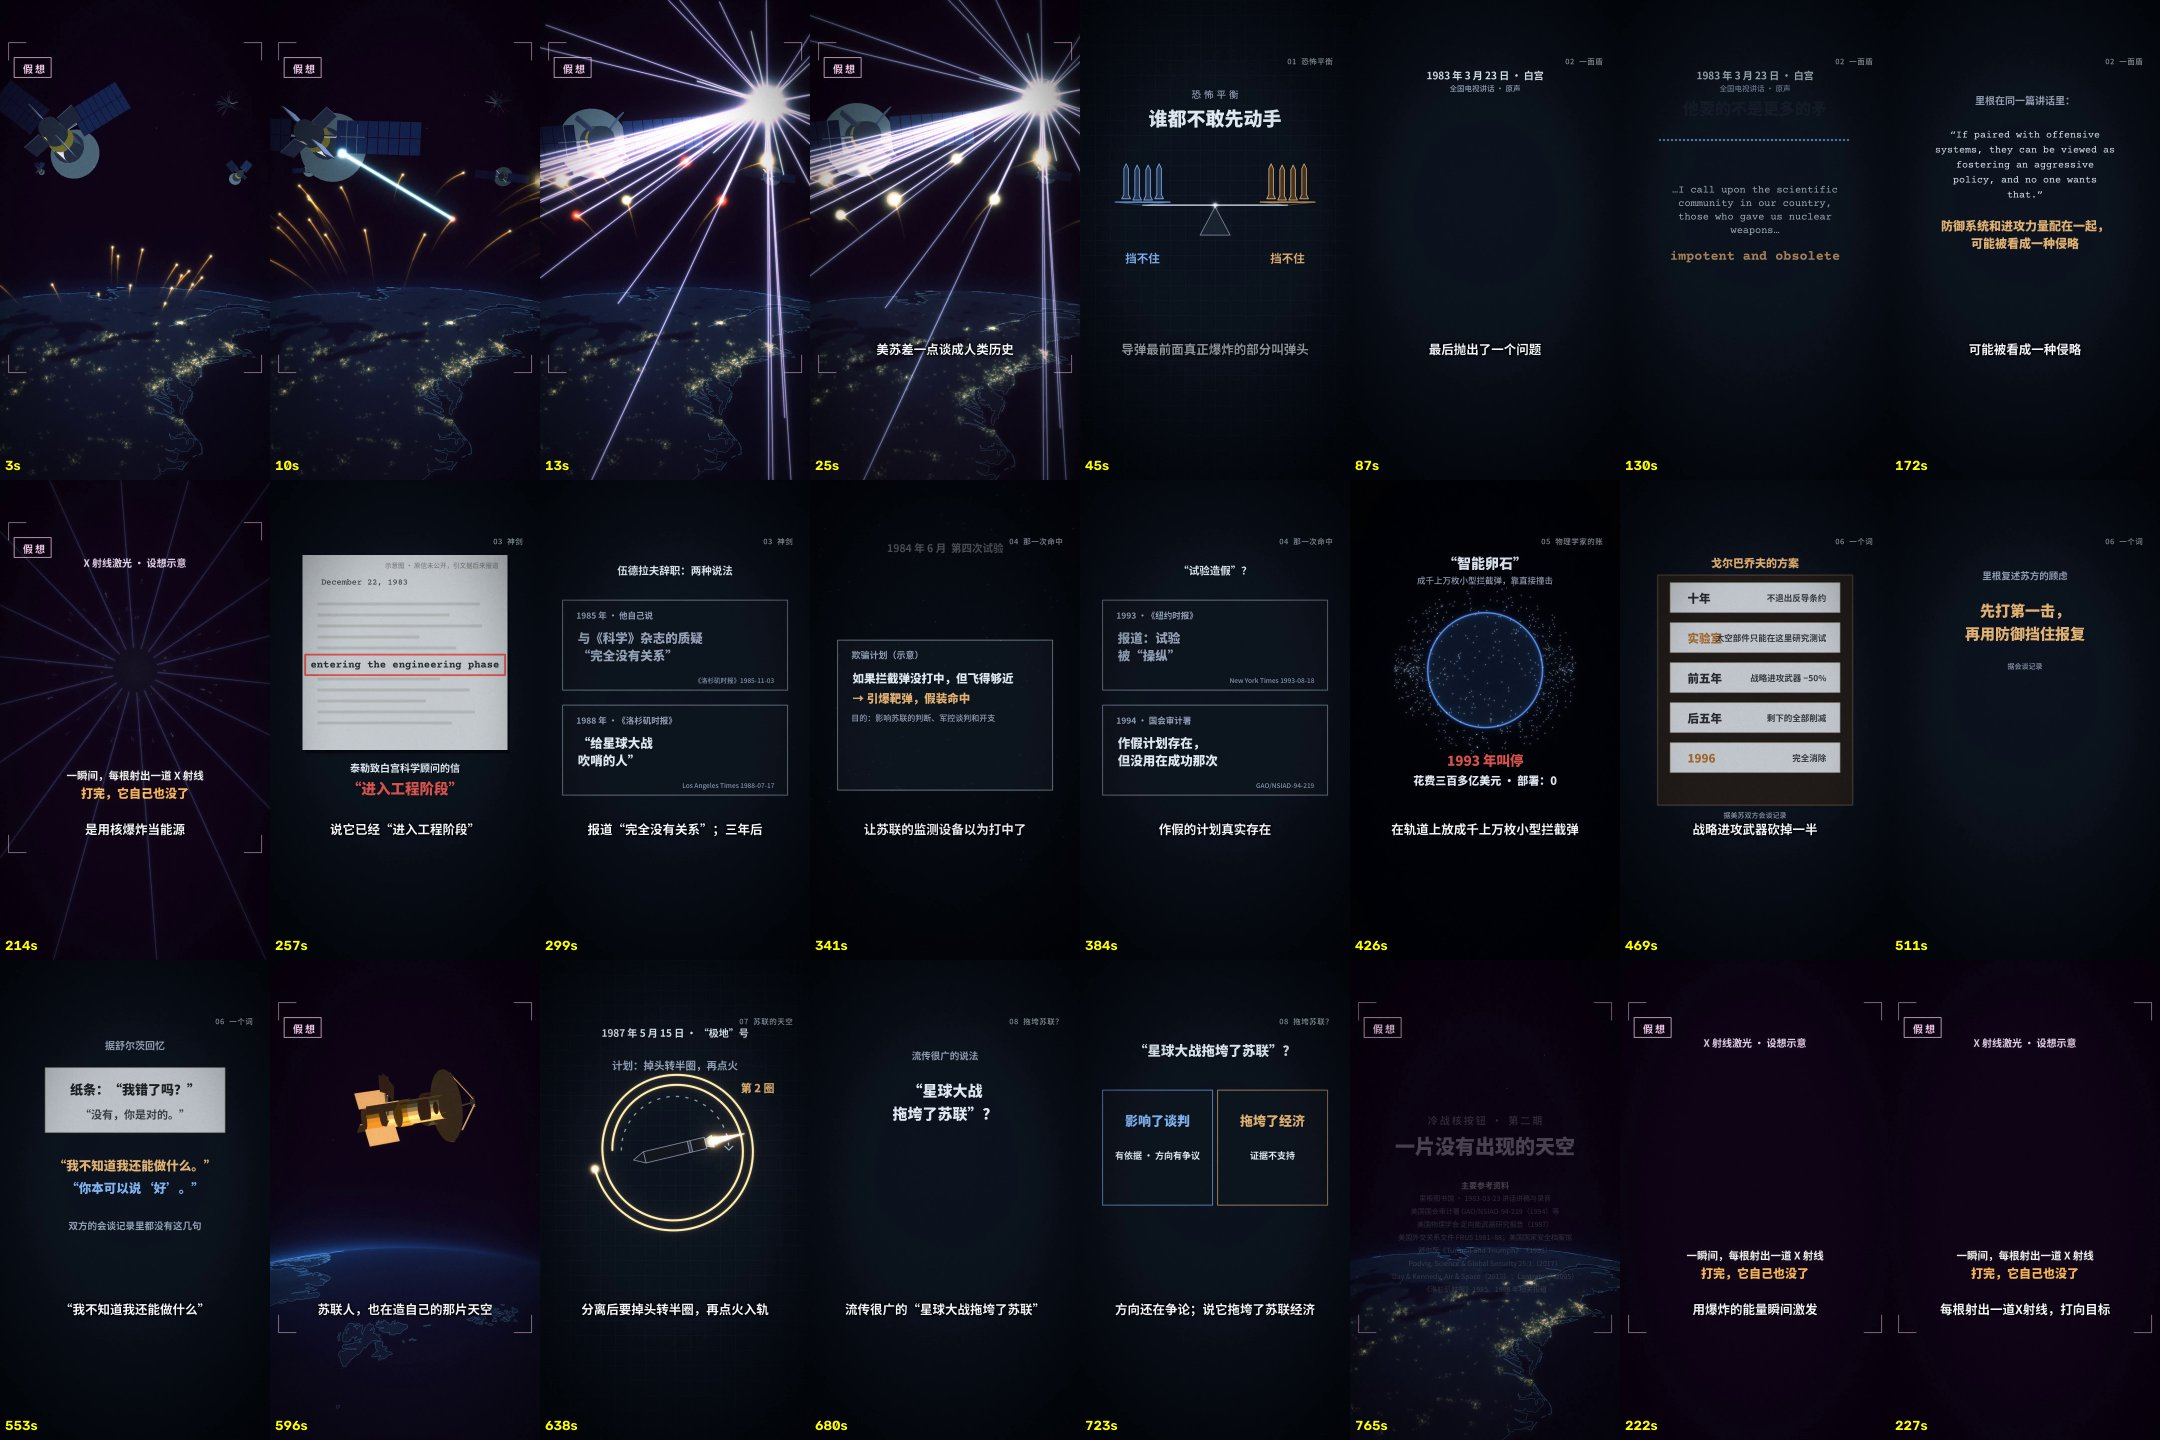
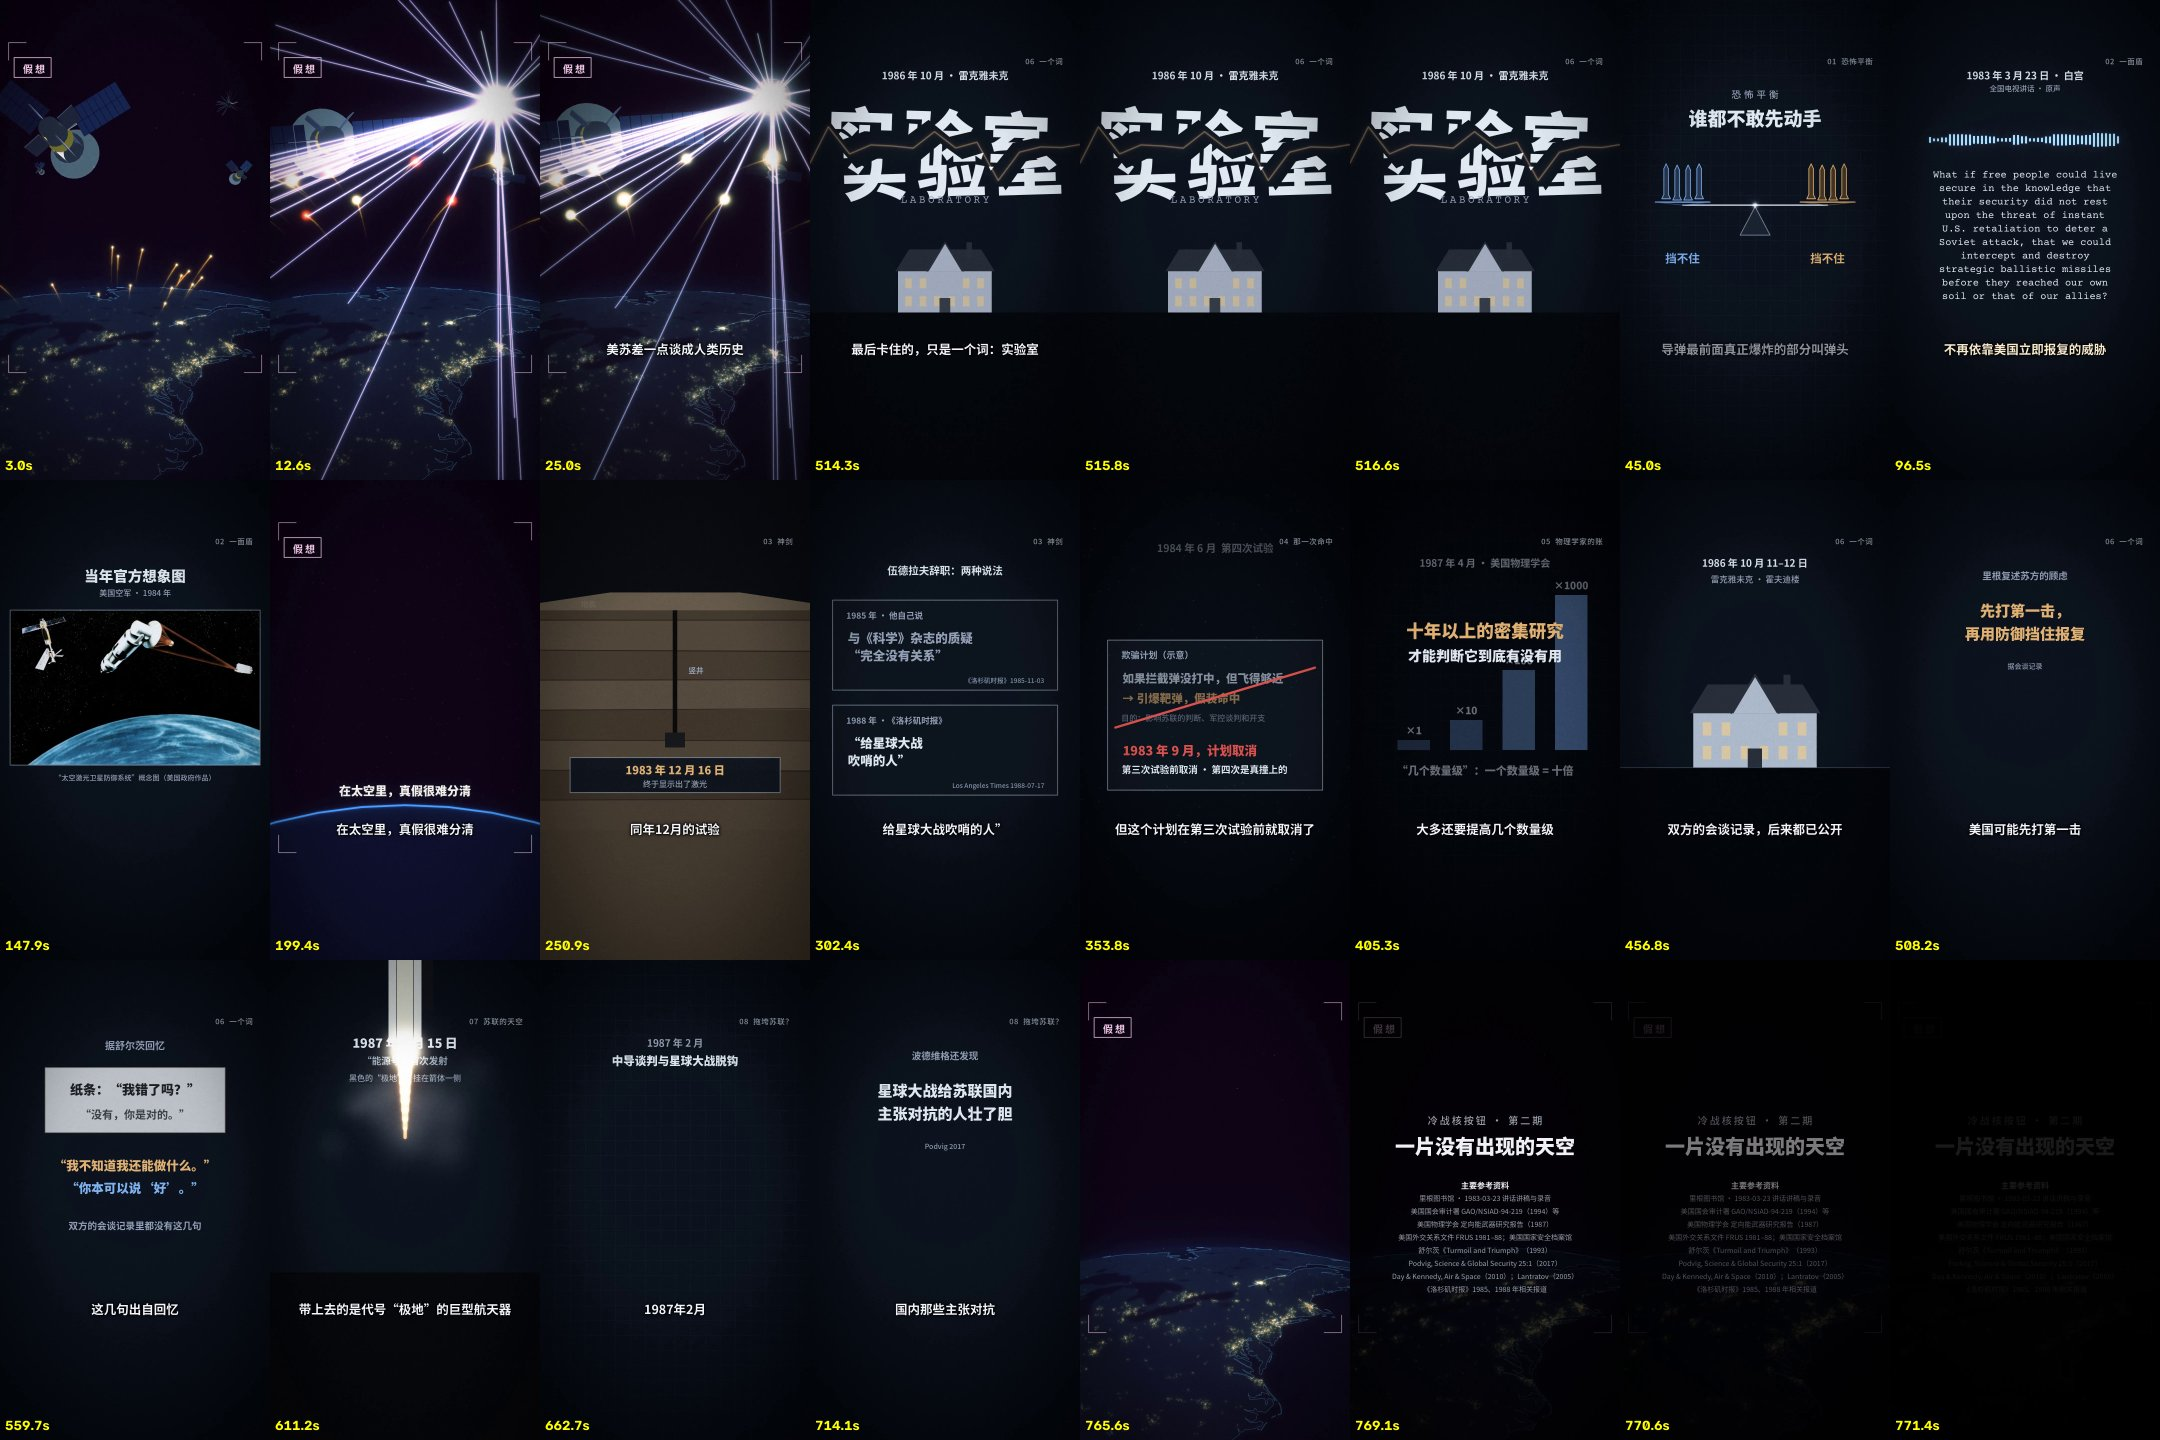
Decoy shot: keep the labelled objects in frame; line-by-line ASR check
- boost_decoy: objects spread and then drift slowly so the warhead/decoy labels
  stay on screen for the whole line; drop the in-scene caption that repeated
  the subtitle
- asr_lines.py: transcribes every narration line on its own from the pure
  voice and from the finished mix, so the comparison is free of long-form
  segmentation noise
- README: Qwen3-TTS narration credit, mix2.py, ASR checks

Claude-Session: https://claude.ai/code/session_016bBWf2WztEHVHSfKHBGqrS

diff --git a/sky_never_appeared/src/asr_lines.py b/sky_never_appeared/src/asr_lines.py
@@ -1,0 +1,86 @@
+"""Line-by-line ASR read-back: pure voice vs. the finished mix.
+
+The whole-film check (asr_film.py) runs Whisper in long-form mode, where a tiny
+change in the input can move segment boundaries and change the transcript. This
+check removes that noise. It cuts every narration line out of both soundtracks at
+the same timeline position and transcribes each cut on its own. It then compares
+both transcripts with the script at the syllable level (toneless pinyin).
+Run in the qwen312 venv:
+    python asr_lines.py voice.wav final_mix.wav timeline.json report.txt
+"""
+import sys, json, re, difflib, os
+import numpy as np
+import soundfile as sf
+from scipy.signal import resample_poly
+from faster_whisper import WhisperModel
+from pypinyin import lazy_pinyin
+
+sys.path.insert(0, os.path.dirname(os.path.abspath(__file__)))
+from tts import normalize
+from script_data import tts_text
+
+PAD = 0.12
+
+
+def han(s):
+    return re.sub(r'[^一-鿿]', '', normalize(s))
+
+
+def load16(p):
+    w, sr = sf.read(p, dtype='float32')
+    if w.ndim == 2:
+        w = w.mean(1)
+    return resample_poly(w, 16000, sr).astype(np.float32)
+
+
+def errors(ref, hyp):
+    R, H = lazy_pinyin(ref), lazy_pinyin(hyp)
+    sm = difflib.SequenceMatcher(a=R, b=H, autojunk=False)
+    n = sum(max(i2 - i1, j2 - j1) for tag, i1, i2, j1, j2 in sm.get_opcodes() if tag != 'equal')
+    return n, len(R)
+
+
+def main():
+    vp, mp, tlj, outp = sys.argv[1:5]
+    tl = json.load(open(tlj))
+    m = WhisperModel(os.environ.get('ASR_MODEL', 'medium'), device='cpu', compute_type='int8',
+                     cpu_threads=int(os.environ.get('ASR_THREADS', '2')))
+    tracks = {'voice': load16(vp), 'mix': load16(mp)}
+    rows, tot = [], {'voice': 0, 'mix': 0}
+    nref = 0
+    for ln in tl['lines']:
+        ref = han(tts_text(ln['text']))
+        a = int(max(0, ln['start'] - PAD) * 16000)
+        b = int((ln['start'] + ln['dur'] + PAD) * 16000)
+        row = {'id': ln['id'], 'ref': ref}
+        for k, w in tracks.items():
+            segs, _ = m.transcribe(w[a:b], language='zh', beam_size=5, vad_filter=False,
+                                   condition_on_previous_text=False,
+                                   initial_prompt='以下是普通话的纪录片旁白。')
+            hyp = han(''.join(s.text for s in segs))
+            n, nr = errors(ref, hyp)
+            row[k], row[k + '_n'] = hyp, n
+            tot[k] += n
+        nref += nr
+        rows.append(row)
+        print(f"{row['id']:5s} voice {row['voice_n']:2d}  mix {row['mix_n']:2d}", flush=True)
+    worse = [r for r in rows if r['mix_n'] > r['voice_n']]
+    better = [r for r in rows if r['mix_n'] < r['voice_n']]
+    out = [f'line-by-line ASR, {len(rows)} narration lines, {nref} reference syllables',
+           f"syllable errors  pure voice: {tot['voice']} ({tot['voice'] / nref:.2%})   "
+           f"final mix: {tot['mix']} ({tot['mix'] / nref:.2%})",
+           f'lines where the mix reads worse than the pure voice: {len(worse)}; better: {len(better)}', '']
+    for r in rows:
+        if r['voice_n'] or r['mix_n']:
+            out.append(f"{r['id']}  voice {r['voice_n']}  mix {r['mix_n']}")
+            out.append(f"   script: {r['ref']}")
+            if r['voice_n']:
+                out.append(f"   voice : {r['voice']}")
+            if r['mix_n']:
+                out.append(f"   mix   : {r['mix']}")
+    open(outp, 'w').write('\n'.join(out) + '\n')
+    print('\n'.join(out))
+
+
+if __name__ == '__main__':
+    main()

diff --git a/sky_never_appeared/src/scenes_more.py b/sky_never_appeared/src/scenes_more.py
@@ -230,17 +230,16 @@ def boost_decoy(t, phase='boost'):
         tau = t - tb
         objs = [(-1.0, 'w'), (-0.6, 'd'), (-0.2, 'w'), (0.2, 'd'), (0.6, 'd'), (1.0, 'w'), (0.0, 'd')]
         for k, (dx, kind) in enumerate(objs):
-            x = hx + dx * 170 * min(tau, 2.5) / 2.5 + 40 * tau
-            y = hy - 60 * tau - k % 3 * 20 * min(tau, 2.0)
-            splat(e, x, y, 4, (1.0, 0.95, 0.85), 1.4)
+            # spread out, then drift slowly so the labelled objects stay in frame
+            x = hx + dx * 170 * min(tau, 2.5) / 2.5 + 25 * min(tau, 2.5) + 5 * max(tau - 2.5, 0)
+            y = hy + 60 * min(tau, 2.5) + 12 * max(tau - 2.5, 0) + (k % 3 - 1) * 40 * min(tau, 2.0)
+            splat(e, x, y, 6, (1.0, 0.95, 0.85), 1.6)
             if phase == 'decoy' and t > tb + 2.0:
                 lab = '真弹头' if kind == 'w' else '诱饵'
                 col = WHITE if kind == 'w' else GREY
                 a = smooth(remap(t, tb + 2.0, tb + 2.6))
                 if k in (0, 1, 3):
-                    text(c, lab, x, y - 40, 'bold', 30, col, a)
-        if phase == 'decoy':
-            text(c, '在太空里，真假很难分清', W / 2, 1240, 'black', 48, WHITE, smooth(remap(t, tb + 3.0, tb + 3.6)))
+                    text(c, lab, x, y - 44, 'bold', 38, col, a)
     return c, e
 
 

diff --git a/sky_never_appeared/README.md b/sky_never_appeared/README.md
@@ -2,8 +2,12 @@
 
 竖屏 1080×1920 / 30fps 视频号成片的全部工程：解说稿、史料核对、渲染代码、样张、样音。
 
-**成片**：`final/一片没有出现的天空_冷战核按钮02.mp4`（12 分 50 秒，H.264 + AAC，小于 100 MB）。
-配音检测见 `audio/voice_report_full.md`，整片 ASR 回读结果见 `final/asr_film.txt`，抽帧检查见 `final/qa_sheet.jpg`。
+**成片**（按配乐规范重做声音）：
+- `final/一片没有出现的天空_冷战核按钮02.mp4` — 有配乐（12 分 52 秒，1080×1920，30fps，H.264 + AAC，小于 100 MB）
+- `final/一片没有出现的天空_冷战核按钮02_无配乐.mp4` — 只有人声和音效，可用视频号音乐库配乐
+
+配乐说明见 `audio/music_report.md`，配音检测见 `audio/voice_report_full.md`，
+ASR 回读见 `final/asr_lines.txt`（逐句：纯人声 vs 成片混音）和 `final/asr_film.txt`（整片连续识别），抽帧检查见 `final/qa_sheet.jpg`。
 
 - `script/script.md` — 解说稿 v1（逐段旁白 + 画面说明）
 - `script/notes_sources.md` — 史料核对表、对原提纲的更正、主要来源
@@ -23,10 +27,14 @@ python src/qwen_narrate.py lines.json design_dir/design.json out_dir
 python src/tts.py lines.json out_dir zm_014 1.0
 # 画面（并行渲染，按时间段）
 NPROC=4 python3 src/render.py <tts_dir> video.mp4 [t0 t1]
-# 声音（配乐与音效全部程序合成）
-python3 src/mix.py <tts_dir> audio.wav [t0 t1]
+# 声音（配乐与音效全部程序合成；分层、侧链压低、两遍 loudnorm，同时输出无配乐版）
+python3 src/mix2.py <tts_dir> <out_dir>
+# 检查：整片 ASR、逐句 ASR（纯人声 vs 成片混音）
+python src/asr_film.py final_audio.wav timeline.json asr_film.txt
+python src/asr_lines.py voice.wav final_audio.wav timeline.json asr_lines.txt
 ```
 
 素材版权：地图数据为 Natural Earth（公有领域）；里根 1983-03-23 讲话原声为白宫通讯局录音（里根图书馆注明公有领域，NARA 7087573）；
 当年官方想象图为美国空军 1984 年作品（公有领域，NARA 6386997）；字体为 Noto Sans CJK 与 Courier Prime（SIL OFL）；
-配音为 Kokoro-82M v1.1-zh（Apache-2.0）；配乐、音效均为代码合成。
+配音为 Qwen3-TTS-12Hz-1.7B（先用 VoiceDesign 按文字描述设计音色，再用 Base 克隆逐句合成；Apache-2.0；没有克隆任何真人的声音），
+备选方案 Kokoro-82M v1.1-zh（Apache-2.0）；配乐、音效均为代码合成。

diff --git a/sky_never_appeared/audio/music_report.md b/sky_never_appeared/audio/music_report.md
@@ -24,11 +24,12 @@
 
 ## 混音（实测）
 
-- 整片响度 **−16.0 LUFS**，真峰值 **−1.5 dBTP**（两遍 loudnorm，线性增益）
+- 整片响度 **−16.0 LUFS**；真峰值在 AAC 编码后实测 **−1.7 dBTP**（无配乐版 −2.0 dBTP），都不超过 −1.5 dBTP（两遍 loudnorm，线性增益；编码会让峰值上升约 0.7 dB，所以编码前压到 −2.5 / −3.0）
 - 有旁白时，音乐 + 音效比人声低：**中位数 16.4 dB**（10% 分位 13.2 dB，90% 分位 18.7 dB），在 15–18 dB 范围内；旁白停顿时音乐自动回升（检测器起音 15 ms、释放 500 ms）
 - 音乐在 3 kHz 处削 4 dB（Q=1），给人声让出清晰度
 - 音乐开头淡入 2 秒、结尾淡出 3 秒；画面最后 2 秒淡出到黑
-- 另出一版**无配乐成片**（只有人声和音效，同样 −16 LUFS / −1.5 dBTP），发布时可以用视频号音乐库配乐，音量拉到 15–25%
+- 加配乐后整片 ASR 回读：音节错误率 **0.14%**，纯人声 0.13%，没有变差；差异只有同音字（“谈”写成“弹”、“信”写成“幸”）和 ASR 偶尔漏掉的一两个字
+- 另出一版**无配乐成片**（只有人声和音效，同样 −16 LUFS，真峰值 −2.0 dBTP），发布时可以用视频号音乐库配乐，音量拉到 15–25%
 
 ## 需要你决定
 
